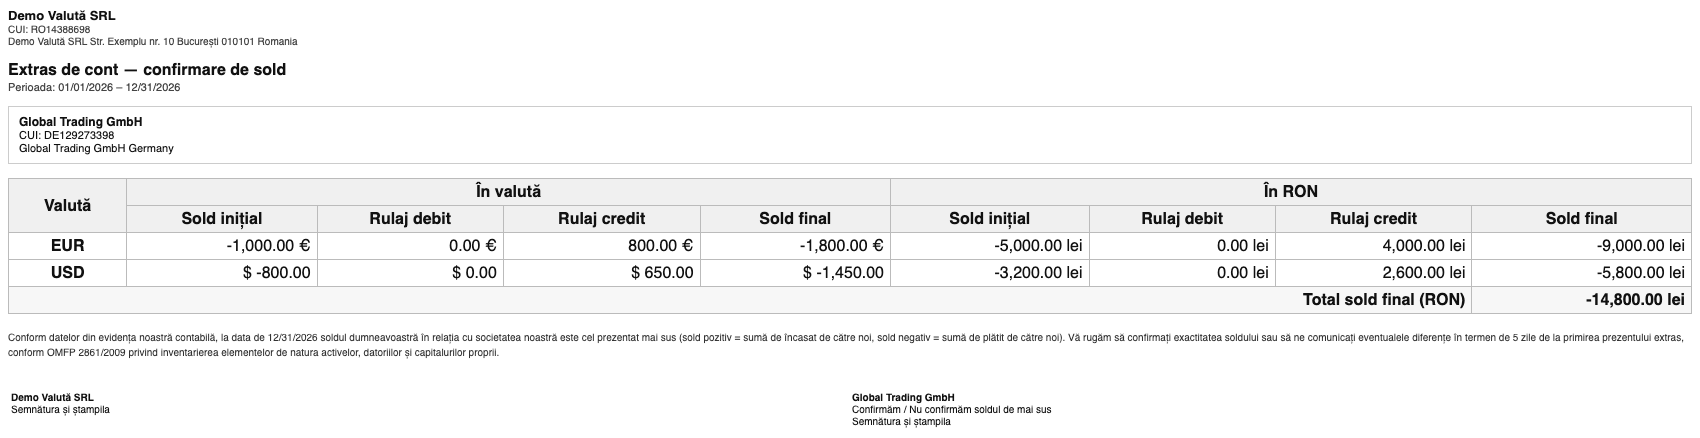
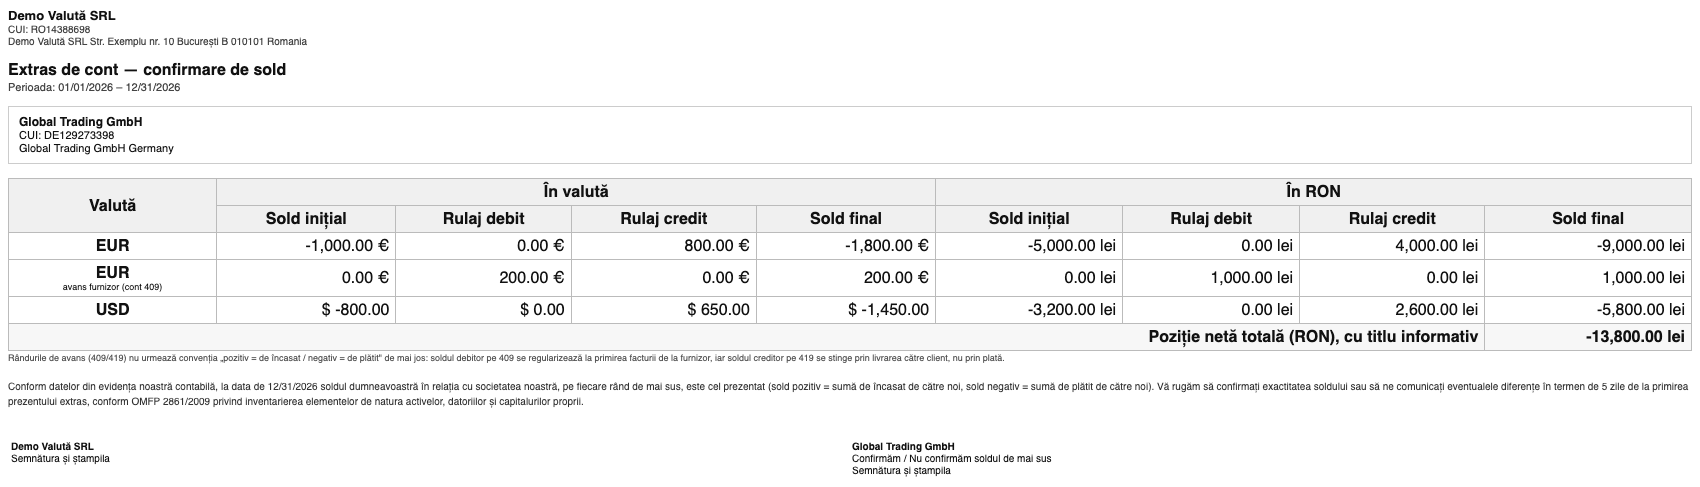
docs(wiki): actualizează l10n_ro_partner_ledger_currency la 19.0.1.4.3
Re-ingestie după fix-ul de pe tichetul #9575 (PR #315): în „Confirmare
sold (PDF)", soldul de avans (409/419) apare acum pe rând separat de
soldul comercial (401/4111), în loc să fie compensate — OMFP 1802/2014
pct. 56. Pagina, fișa consultant și capturile au fost regenerate; adăugat
link activ către l10n_ro_balance_confirmation (sursa pattern-ului
_ADVANCE_PREFIXES).

Nu am atins alte pagini/capturi modificate deja în arbore (necomise de
altă sesiune) — .index/chunks.json rămâne nesincronizat cu ele, va fi
regenerat la commit-ul lor.

diff --git a/l10n_ro_partner_ledger_currency/FISA_CONSULTANT.md b/l10n_ro_partner_ledger_currency/FISA_CONSULTANT.md
@@ -47,8 +47,14 @@ Roluri recomandate pentru testare:
 ## 4. Conturi și date implicate
 
 Raportul citește conturile de **parteneri** din planul RO: **4111** (clienți), **401** (furnizori),
-și restul conturilor de tip creanță/datorie partener (409x, 419, 461, 462 etc.). Nu generează
-note contabile — este un raport de citire peste liniile contabile existente.
+și conturile de avans **409x** (Furnizori - debitori) și **419x** (Clienți - creditori). Nu
+generează note contabile — este un raport de citire peste liniile contabile existente.
+
+⚠ **Filtrul „Cont"**: cele patru opțiuni standard Odoo (Receivable / Non Trade Receivable /
+Payable / Non Trade Payable) se bazează pe `account_type` (`asset_receivable` / `liability_payable`).
+Conturile 409x/419x sunt însă `liability_current` în planul de conturi românesc — modulul extinde
+domeniul acestui filtru DOAR pe acest raport (nu global), astfel: cu **Payable** bifat se includ și
+conturile **409%**, cu **Receivable** bifat se includ și conturile **419%** (Tichet #9575).
 
 Date minime pentru demo:
 - companie românească cu planul de conturi RO instalat (`l10n_ro`);
@@ -100,9 +106,20 @@ propriul **Sold Inițial** și propriul sold rulant; antetul grupului arată sol
    (alături de PDF/XLSX standard).
 
 Documentul generat are **câte o pagină per partener**: datele companiei și ale partenerului,
-tabelul cu **o linie per valută** (Sold inițial / Rulaj debit / Rulaj credit / Sold final, în
-valută și în RON), **Total sold final (RON)**, textul de confirmare conform OMFP 2861/2009 și
-zonele de semnătură pentru ambele părți.
+tabelul cu **o linie per valută și tip de sold** (Sold inițial / Rulaj debit / Rulaj credit /
+Sold final, în valută și în RON), rândul de informare **„Poziție netă totală (RON), cu titlu
+informativ"**, textul de confirmare conform OMFP 2861/2009 și zonele de semnătură pentru
+ambele părți.
+
+✅ **Avansuri (409/419) în „Confirmare sold"**: soldul de avans apare pe un **rând separat**
+de soldul comercial al aceleiași valute (ex. rândul „EUR" pentru contul 401/4111 și rândul
+„EUR — avans furnizor (cont 409)" / „avans client (cont 419)" pentru avans), fiecare cu propriul
+Sold inițial / Rulaje / Sold final — nu sunt adunate într-un singur număr (Tichet #9575;
+OMFP 1802/2014 pct. 56 interzice compensarea între elemente de activ și de datorii). Sub tabel
+apare o notă că avansurile nu urmează convenția „pozitiv = de încasat / negativ = de plătit":
+soldul debitor pe 409 se regularizează la primirea facturii de la furnizor, iar soldul creditor
+pe 419 se stinge prin livrarea către client, nu prin plată. Rândul de total rămâne doar
+informativ (suma tuturor rândurilor) — soldul care se confirmă este cel de pe fiecare rând.
 
 ![Confirmare sold (PDF) — extras de cont cu o linie per valută și text OMFP 2861/2009](screenshots/02_confirmare_sold.png)
 
@@ -154,7 +171,11 @@ Modulul **nu generează note contabile** — citește liniile existente pe contu
 - diferențele de curs (665/765) apar în fișă doar în coloanele RON (sunt linii fără valută) —
   soldul valutar nu este afectat, corect contabil;
 - reevaluarea soldurilor la cursul BNR de închidere se face separat
-  (modulul `l10n_ro_currency_revaluation`).
+  (modulul `l10n_ro_currency_revaluation`);
+- **avansurile (409/419) sunt elemente nemonetare** (OMFP 1802/2014 pct. 315-316) — spre
+  deosebire de 401/4111, soldul lor în valută **nu se reevaluează** lunar. La un partener cu
+  avans, raportul dintre soldul RON și soldul valutar din fișă poate să nu mai corespundă unui
+  singur curs; nu este o eroare a raportului.
 
 ## 7. Legături cu alte module / declarații
 
@@ -182,12 +203,21 @@ Ce rămâne manual: trimiterea confirmării către partener și compararea cu ex
 - [ ] Butonul **Confirmare sold (PDF)** generează documentul: o pagină per partener, o linie per
       valută, totalul RON corect (suma soldurilor finale în RON ale tuturor valutelor).
 - [ ] Soldul final din PDF corespunde antetului de grup din raportul de pe ecran.
+- [ ] Un partener cu sold pe 401 ȘI pe 409 (sau 4111 ȘI 419), în aceeași valută, apare în
+      „Confirmare sold" cu **DOUĂ rânduri distincte** — soldul comercial și avansul NU sunt
+      adunate pe un singur rând (Tichet #9575).
 - [ ] Butonul **Fișă în valută (PDF)** generează „Fișa contului" în format clasic: o fișă per
       (partener, cont, valută), doar în valută, o linie per document, cu sold cumulat,
       Debit/Credit precedent, Rulaj total și Sold final.
 - [ ] Fișa în valută respectă filtrele curente (perioadă/partener/cont/jurnal) — fără wizard.
 - [ ] Tranzacțiile în moneda companiei apar ca fișe separate în RON.
 - [ ] Exporturile PDF/XLSX standard conțin coloanele valutare.
+- [ ] Conturile de avans **409** (furnizor cu sold pe 409) și **419** (client cu sold pe 419) apar
+      în raport cu filtrul **Cont: Tot** bifat — nu doar cu conturile 4111/401 (Tichet #9575).
+- [ ] Cu filtrul „Cont" restrâns la **doar Receivable**, un sold pe 409 (avans furnizor) **nu**
+      apare; cu filtrul restrâns la **doar Payable**, un sold pe 419 (avans client) **nu** apare —
+      extinderea urmează latura corectă (409↔Payable, 419↔Receivable), nu le arată pe amândouă
+      indiferent de selecție.
 
 ## 9. Mesaje de eroare frecvente
 
@@ -199,18 +229,21 @@ Ce rămâne manual: trimiterea confirmării către partener și compararea cu ex
 | Soldul valutar pare amestecat | Partener cu mai multe valute, raport vechi în cache | Reîncărcați raportul; gruparea pe valută separă soldurile per monedă |
 | PDF-ul de confirmare iese gol | Filtrele exclud toți partenerii (perioadă/partener) | Lărgiți perioada sau scoateți filtrul de partener |
 | Sold Inițial 0 deși există istoric | Mișcările istorice sunt în ciornă | Postați documentele din perioadele anterioare |
+| Contul 409/419 nu apare deși are sold | Filtrul „Cont" e restrâns la o singură latură | 409 apare doar cu Payable bifat, 419 doar cu Receivable bifat — bifați „Cont: Tot" pentru ambele |
 
 ## 10. Capturi de ecran
 
 Capturile (`readme/screenshots/`) sunt **generate automat** din `tests/test_screenshots.py`
 (mixinul `ScreenshotCase` din `l10n_ro_doc_screenshots`, import defensiv), în **limba română**,
-pe planul de conturi RO (`setup_country("ro")`), cu un furnizor în două valute (EUR + USD) și
-un client RON:
+pe planul de conturi RO (`setup_country("ro")`), cu un furnizor în două valute (EUR + USD, plus
+un avans pe cont 409 în EUR) și un client RON:
 
 1. `01_raport_valuta.png` — raportul desfășurat: furnizor cu EUR + USD grupat pe valută
    (Sold Inițial + sold rulant per valută) și partener RON cu coloanele valutare goale.
 2. `02_confirmare_sold.png` — documentul **Confirmare sold (PDF)** (randarea HTML a aceluiași
-   layout tipărit): o linie per valută, total RON, text OMFP 2861/2009 și zone de semnătură.
+   layout tipărit): o linie per valută pentru soldul comercial, plus rândul separat de avans
+   furnizor (`Global Trading GmbH` are un avans de 200 € pe contul 409) — nu compensate —,
+   rândul de informare „Poziție netă totală (RON)", text OMFP 2861/2009 și zone de semnătură.
 3. `03_fisa_cont_valuta.png` — documentul **Fișă în valută (PDF)**, format clasic: „Fișa contului"
    pentru un furnizor în EUR (`Global Trading GmbH`, cont 401), cu Debit/Credit precedent, linii
    doar în valută cu sold cumulat, Rulaj total și Sold final creditor. Documentul folosește

diff --git a/l10n_ro_partner_ledger_currency/index.md b/l10n_ro_partner_ledger_currency/index.md
@@ -1,10 +1,10 @@
 # Romania - Fișa partenerului în valută (localizat la `l10n_ro_partner_ledger_currency/index.md`)
 
 - **Nume Tehnic:** `l10n_ro_partner_ledger_currency`
-- **Versiune:** `19.0.1.4.0`
+- **Versiune:** `19.0.1.4.3`
 - **Cale:** https://github.com/terrabit-solutions/l10n_ro_ent/tree/19.0/l10n_ro_partner_ledger_currency
 - **Cale Locală:** `odoo-addons/l10n_ro_ent/l10n_ro_partner_ledger_currency`
-- **Ultima Ingestie:** 2026-08-20
+- **Ultima Ingestie:** 2026-09-24
 - **Fișă Consultant:** [FISA_CONSULTANT.md](FISA_CONSULTANT.md)
 
 #### 1. Sumar
@@ -17,10 +17,12 @@ Modulul extinde raportul Partner Ledger (Fișa Partenerului) din Odoo Enterprise
 - Coloana **Sold Valută**: sold progresiv acumulat în valuta originală (running balance).
 - Netransparent pentru RON: tranzacțiile în RON au coloanele valutare goale, pentru vizibilitate clară a operațiunilor cu valută efectivă.
 - Păstrarea coloanelor standard **Debit (RON)**, **Credit (RON)**, **Sold (RON)**.
-- Vizibil automat doar pentru companiile cu Țara = România.
+- Vizibil automat doar pentru companiile cu Țara = România, și doar când baza de date are multi-valută activă (Setări → Contabilitate → Valute).
+- Meniu: **Contabilitate → Raportare → Parteneri → Fișa Partenerului în Valută**.
 - Moștenește toate funcționalitățile Partner Ledger: sold inițial, export PDF/XLSX, filtre parteneri/jurnale, drill-down, reconciliere.
+- Filtrul „Cont" extins doar pe acest raport: conturile de avans **409** (Furnizori-debitori) intră sub **Payable**, **419** (Clienți-creditori) sub **Receivable** — altfel rămâneau invizibile, fiind `liability_current` în planul RO și nu `asset_receivable`/`liability_payable`.
 - Parteneri cu mai multe valute (ex. EUR și USD): raportul inserează automat un sub-nivel de grupare pe valută, fiecare cu propriul sold inițial și sold rulant.
-- **Confirmare sold (PDF)**: extras de cont compact per partener, cu o linie per valută (sold inițial / rulaje / sold final, în valută și RON) și text de confirmare conform OMFP 2861/2009, pentru inventarierea anuală a creanțelor și datoriilor.
+- **Confirmare sold (PDF)**: extras de cont compact per partener, cu o linie per valută (sold inițial / rulaje / sold final, în valută și RON) și text de confirmare conform OMFP 2861/2009, pentru inventarierea anuală a creanțelor și datoriilor. Soldul de **avans (409/419)** apare pe un **rând separat** de soldul comercial al aceleiași valute, necompensat (OMFP 1802/2014 pct. 56); rândul de total al documentului este doar informativ — „Poziție netă totală (RON), cu titlu informativ" — soldul care se confirmă este cel de pe fiecare rând.
 - **Fișă în valută (PDF)**: fișă de cont în format clasic, o fișă per (partener, cont, valută), cu antet de sold precedent, linii per document și sold cumulat.
 
 #### 3. Dependențe
@@ -32,12 +34,13 @@ Modulul extinde raportul Partner Ledger (Fișa Partenerului) din Odoo Enterprise
 
 **Modele**
 
-- `l10n.ro.partner.currency.report.handler` (`AbstractModel`, moștenește `account.partner.ledger.report.handler`): injectează coloanele valutare (`debit_currency`, `credit_currency`, `balance_currency`) în opțiunile raportului Partner Ledger, extinde query-ul SQL pe `account.move.line` cu sumele brute în valută, calculează soldul inițial și soldul rulant per valută, grupează liniile pe valută sub fiecare partener și expune exporturile PDF „Confirmare sold" și „Fișă în valută".
+- `l10n.ro.partner.currency.report.handler` (`AbstractModel`, moștenește `account.partner.ledger.report.handler`): injectează coloanele valutare (`debit_currency`, `credit_currency`, `balance_currency`) în opțiunile raportului Partner Ledger, extinde query-ul SQL pe `account.move.line` cu sumele brute în valută, calculează soldul inițial și soldul rulant per valută, grupează liniile pe valută sub fiecare partener și expune exporturile PDF „Confirmare sold" și „Fișă în valută". Pentru „Confirmare sold" agregarea soldurilor se face și pe tipul contului (`_l10n_ro_advance_kind_case_sql`, pattern `_ADVANCE_PREFIXES`): soldul comercial (401/4111) și soldul de avans (409/419) sunt calculate și afișate ca rânduri distincte, fără compensare.
+- `account.report` (extensie, `account_report.py`): `_get_options_account_type_domain` — extinde domeniul filtrului standard „Cont" (Receivable/Payable) pentru a include și conturile de avans 409%/419% pe acest raport.
 
 **Vizualizări / Date**
 
 - `data/l10n_ro_partner_currency_report.xml`: definește raportul `account.report` „Fișa Partenerului în Valută" (vizibil doar pentru `country_id = base.ro`), coloanele standard RON + `amount_currency`, filtrul `filter_aml_ir_filters` pentru izolarea unei singure valute, acțiunea client și meniul (Contabilitate → Raportare → Parteneri).
-- `data/confirmare_sold_pdf.xml`: șablon QWeb `confirmare_sold_pdf` — extras de cont compact, o pagină per partener, cu tabel per valută (sold inițial/rulaje/sold final, în valută și RON) și text legal OMFP 2861/2009.
+- `data/confirmare_sold_pdf.xml`: șablon QWeb `confirmare_sold_pdf` — extras de cont compact, o pagină per partener, cu tabel per valută și tip de sold (comercial vs. avans, pe rânduri separate), în valută și RON, plus text legal OMFP 2861/2009.
 - `data/fisa_cont_valuta_pdf.xml`: acțiune `ir.actions.report` + șablon QWeb `fisa_cont_valuta_pdf` — fișă de cont clasică per (partener, cont, valută), randată cu `web.external_layout`.
 - `security/ir.model.access.csv`: acces în citire pentru `account.group_account_readonly` pe handlerul raportului.
 
@@ -49,3 +52,6 @@ Modulul extinde raportul Partner Ledger (Fișa Partenerului) din Odoo Enterprise
 
 - `account_reports`: modulul de bază Enterprise ale cărui componente (handler-ul Partner Ledger, motorul de raportare) sunt extinse.
 - `l10n_ro`: localizarea românească; raportul este activ doar pentru companii cu `country_id = base.ro`.
+- [l10n_ro_balance_confirmation](../l10n_ro_balance_confirmation/index.md): confirmarea de sold în RON pentru toți partenerii; modulul de față oferă echivalentul în valută, cu logica de separare a avansurilor (409/419) preluată de acolo (`_ADVANCE_PREFIXES`).
+- [l10n_ro_currency_revaluation](../l10n_ro_currency_revaluation/index.md): reevaluarea lunară la cursul BNR a soldurilor în valută — complementar; avansurile (409/419) sunt elemente nemonetare și nu se reevaluează.
+- `currency_rate_live`: opțional, pentru actualizarea automată a cursurilor valutare folosite la afișarea soldurilor.

diff --git a/log.md b/log.md
@@ -4,6 +4,29 @@ This is an append-only log of all operations performed on the wiki.
 
 ---
 
+## [2026-09-24] `l10n_ro_partner_ledger_currency` — actualizat la 19.0.1.4.3 (fix compensare avans/comercial)
+
+- **Acțiune:** Re-ingestie a paginii existente, după fix-ul de pe tichetul #9575 (PR #315): în
+  „Confirmare sold (PDF)", soldul de avans (409/419) apare acum pe rând separat de soldul
+  comercial (401/4111), în loc să fie compensate într-un singur rând — încălcare a principiului
+  necompensării (OMFP 1802/2014 pct. 56), semnalată de agentul `pacioli`. Pagina, fișa consultant
+  și capturile au fost regenerate de la zero pe starea curentă a codului.
+- **Sursă:** `readme/DESCRIPTION.md`, `readme/USAGE.md`, `readme/HISTORY.md` (fix 19.0.1.4.3) și
+  analiză directă de cod (`models/l10n_ro_partner_currency_handler.py`,
+  `models/account_report.py`) pentru noile metode `_l10n_ro_advance_kind_case_sql` și clasificarea
+  `trade`/`advance_supplier`/`advance_customer`.
+- **Fișa consultant:** copiată (`FISA_CONSULTANT.md` + 3 capturi), conținut sincronizat la
+  19.0.1.4.3 — inclusiv eticheta nouă „Poziție netă totală (RON), cu titlu informativ".
+- **Dependențe/Conexiuni:** adăugat link activ către `l10n_ro_balance_confirmation` (sursa
+  pattern-ului `_ADVANCE_PREFIXES`, are pagină wiki, nu era listat anterior) și către
+  `l10n_ro_currency_revaluation`. `account_reports`, `l10n_ro`, `currency_rate_live` rămân text cod
+  (fără pagină wiki).
+- **Fișiere actualizate:** `l10n_ro_partner_ledger_currency/index.md`,
+  `l10n_ro_partner_ledger_currency/FISA_CONSULTANT.md`,
+  `l10n_ro_partner_ledger_currency/screenshots/{01_raport_valuta,02_confirmare_sold,03_fisa_cont_valuta}.png`.
+
+---
+
 ## [2026-09-24] Punțile `deltatech_rma_lot`, `_withdrawal`, `_helpdesk` — pagini noi; fișa `deltatech_rma` completată
 
 - **Acțiune:** Trei pagini noi, pentru cele trei punți ale `deltatech_rma` (rămase nedocumentate de la
